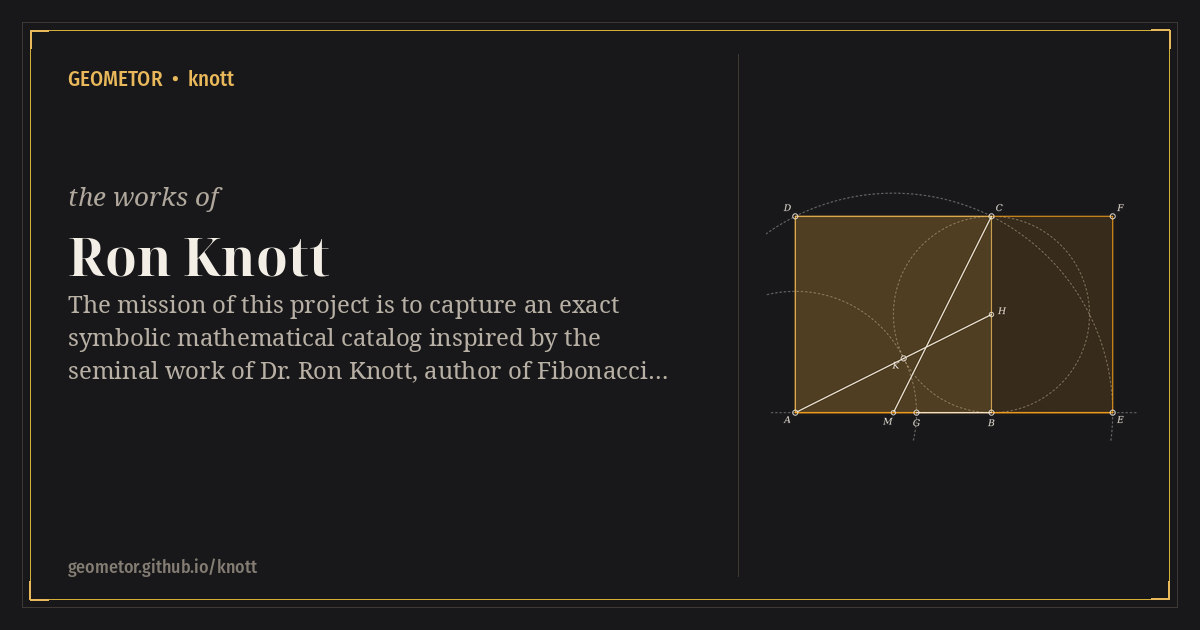
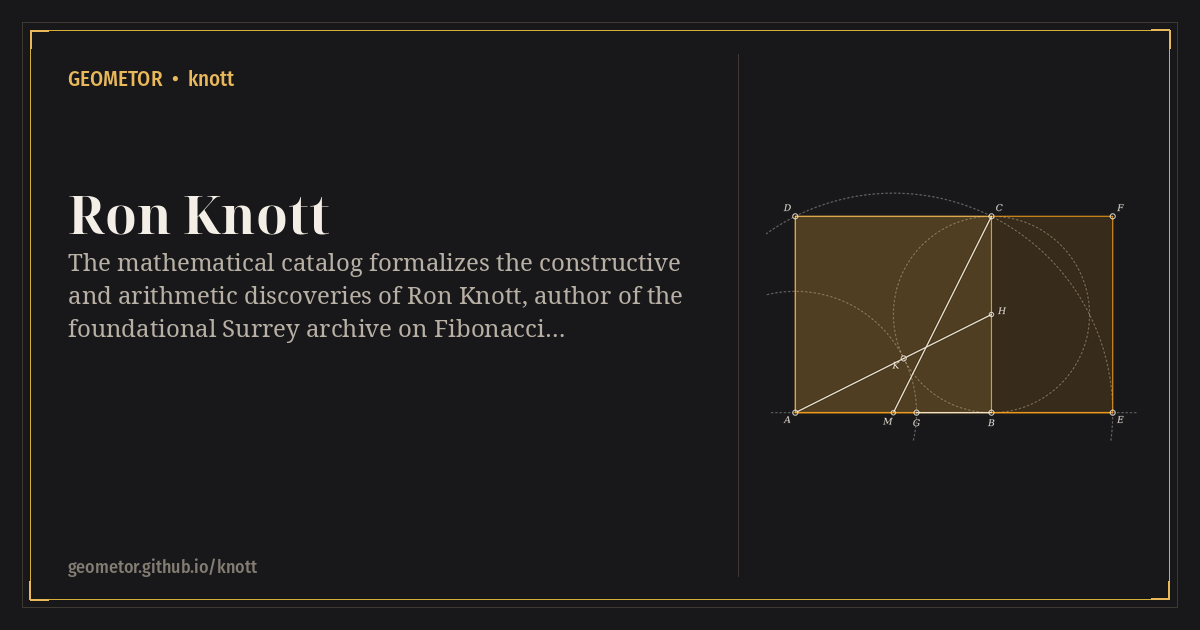
docs: add construction hero images, elevate English titles with native title tracks, and standardize track menus

Changed region(s): [[0.0617, 0.3016, 0.5858, 0.6032]]

diff --git a/README.rst b/README.rst
@@ -3,6 +3,11 @@ GEOMETOR • knott
 
 **Visit the Online Archive:** https://geometor.github.io/knott/
 
+.. image:: docsrc/catalog/01-flat-geometry/01-golden-section-segment/knott-1-1.g1.svg
+   :alt: GEOMETOR • knott featured geometric construction
+   :target: https://geometor.github.io/knott/
+   :align: center
+
 **Ron Knott • Fibonacci Numbers, Golden Section & Wythoff Geometry • semantic digital archive**
 
 Mission
